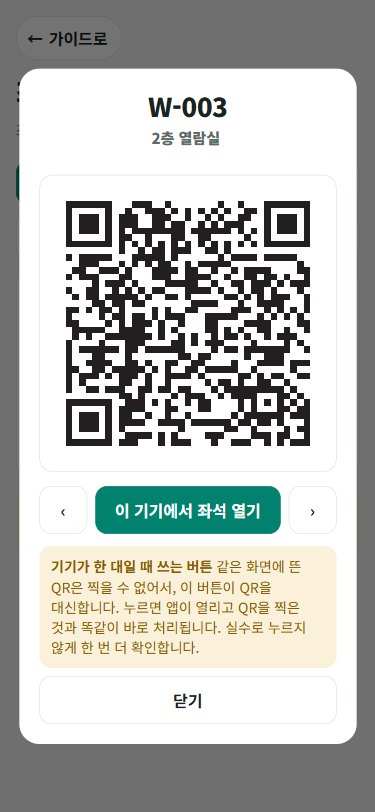
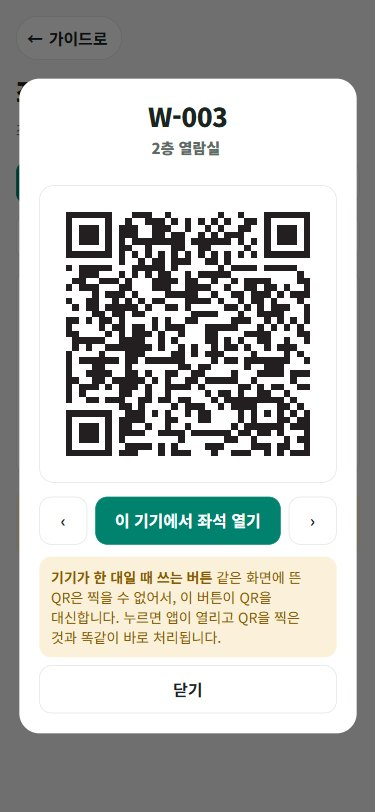
가이드: 좌석 열기 버튼 설명에서 확인 문장 제거

Changed region(s): [[0.0587, 0.2463, 0.968, 0.9236], [0.0293, 0.0616, 0.968, 0.2155]]

diff --git a/docs/guide.src.html b/docs/guide.src.html
@@ -748,7 +748,7 @@
             <h3>가이드에 QR이 크게 뜹니다</h3>
             <div class="viz">
               <figure class="shot dev-two"><div class="shotbox"><img src="{{IMG:gqr2}}" alt="W-003 좌석의 QR이 크게 뜬 창. QR 아래에 이전 좌석과 다음 좌석 버튼, 가운데에 앱의 카메라로 찍으세요 라는 글, 닫기 버튼"><i class="hl" style="left:10.40%;top:24.01%;width:79.20%;height:36.58%"><b>1</b></i><i class="hl out-l" style="left:10.40%;top:69.83%;width:79.20%;height:9.98%"><b>2</b></i></div><figcaption>좌석 QR · 기기 두 대</figcaption></figure>
-              <figure class="shot dev-one"><div class="shotbox"><img src="{{IMG:gqr2one}}" alt="W-003 좌석의 QR이 크게 뜬 창. QR 아래 가운데에 이 기기에서 좌석 열기 버튼, 그 아래 기기가 한 대일 때 쓰는 버튼이라는 설명과 닫기 버튼"><i class="hl" style="left:25.33%;top:59.85%;width:49.33%;height:5.91%"><b>1</b></i><i class="hl out-l" style="left:10.40%;top:67.24%;width:79.20%;height:14.90%"><b>2</b></i></div><figcaption>좌석 QR · 기기 한 대</figcaption></figure>
+              <figure class="shot dev-one"><div class="shotbox"><img src="{{IMG:gqr2one}}" alt="W-003 좌석의 QR이 크게 뜬 창. QR 아래 가운데에 이 기기에서 좌석 열기 버튼, 그 아래 기기가 한 대일 때 쓰는 버튼이라는 설명과 닫기 버튼"><i class="hl" style="left:25.33%;top:61.08%;width:49.33%;height:5.91%"><b>1</b></i><i class="hl out-l" style="left:10.40%;top:68.47%;width:79.20%;height:12.44%"><b>2</b></i></div><figcaption>좌석 QR · 기기 한 대</figcaption></figure>
               <div class="viz-side">
               <ol class="legend dev-two">
                 <li><span>이 QR을 앱의 카메라로 찍습니다</span></li>
